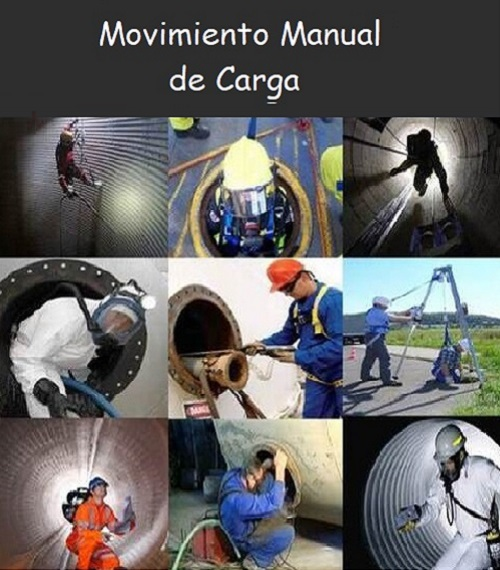
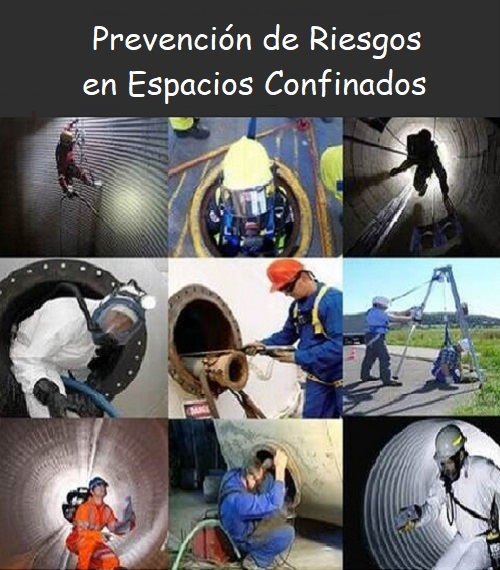
cambio imágenes

Changed region(s): [[0.15, 0.0298, 0.87, 0.1789]]

diff --git a/capacitaciones.html b/capacitaciones.html
@@ -138,7 +138,7 @@
               <div class="front" style="background-image: url(./assets/images/im3.jpg)"></div>
               <div class="back">
                   <div class="inner">
-                      <p>Capacitación en Movimientos de Carga Manual</p>
+                      <p>Capacitación en Ergonomía Laboral</p>
                   </div>
               </div>
           </div>
@@ -150,7 +150,7 @@
               </div>
               <div class="back">
                   <div class="inner">
-                      <p>Capacitación en Prevención de Riesgos por Movimientos Repetitivos</p>
+                      <p>Capacitación en Seguridad en Obras</p>
                   </div>
               </div>
           </div>
@@ -165,7 +165,7 @@
               <div class="front" style="background-image: url(./assets/images/im5.jpg)"></div>
               <div class="back">
                   <div class="inner">
-                      <p>Capacitación en Movimientos de Carga Manual</p>
+                      <p>Capacitación en Pausas Activas</p>
                   </div>
               </div>
           </div>
@@ -177,7 +177,7 @@
               </div>
               <div class="back">
                   <div class="inner">
-                      <p>Capacitación en Prevención de Riesgos por Movimientos Repetitivos</p>
+                      <p>Uso, Conocimiento y Mantemimiento de E.P.P.</p>
                   </div>
               </div>
           </div>
@@ -192,7 +192,7 @@
               <div class="front" style="background-image: url(./assets/images/im7.jpg)"></div>
               <div class="back">
                   <div class="inner">
-                      <p>Capacitación en Movimientos de Carga Manual</p>
+                      <p>Curso de Manejo de Autoelevadores</p>
                   </div>
               </div>
           </div>
@@ -204,7 +204,7 @@
               </div>
               <div class="back">
                   <div class="inner">
-                      <p>Capacitación en Prevención de Riesgos por Movimientos Repetitivos</p>
+                      <p>Prevención de Riesgos en Espacios Confinados</p>
                   </div>
               </div>
           </div>
@@ -219,7 +219,7 @@
               <div class="front" style="background-image: url(./assets/images/im9.jpg)"></div>
               <div class="back">
                   <div class="inner">
-                      <p>Capacitación en Movimientos de Carga Manual</p>
+                      <p>Clasificación, Uso y Mantenimiento de Extintores</p>
                   </div>
               </div>
           </div>
@@ -231,7 +231,7 @@
               </div>
               <div class="back">
                   <div class="inner">
-                      <p>Capacitación en Prevención de Riesgos por Movimientos Repetitivos</p>
+                      <p>Curso de Primeros Auxilios</p>
                   </div>
               </div>
           </div>
